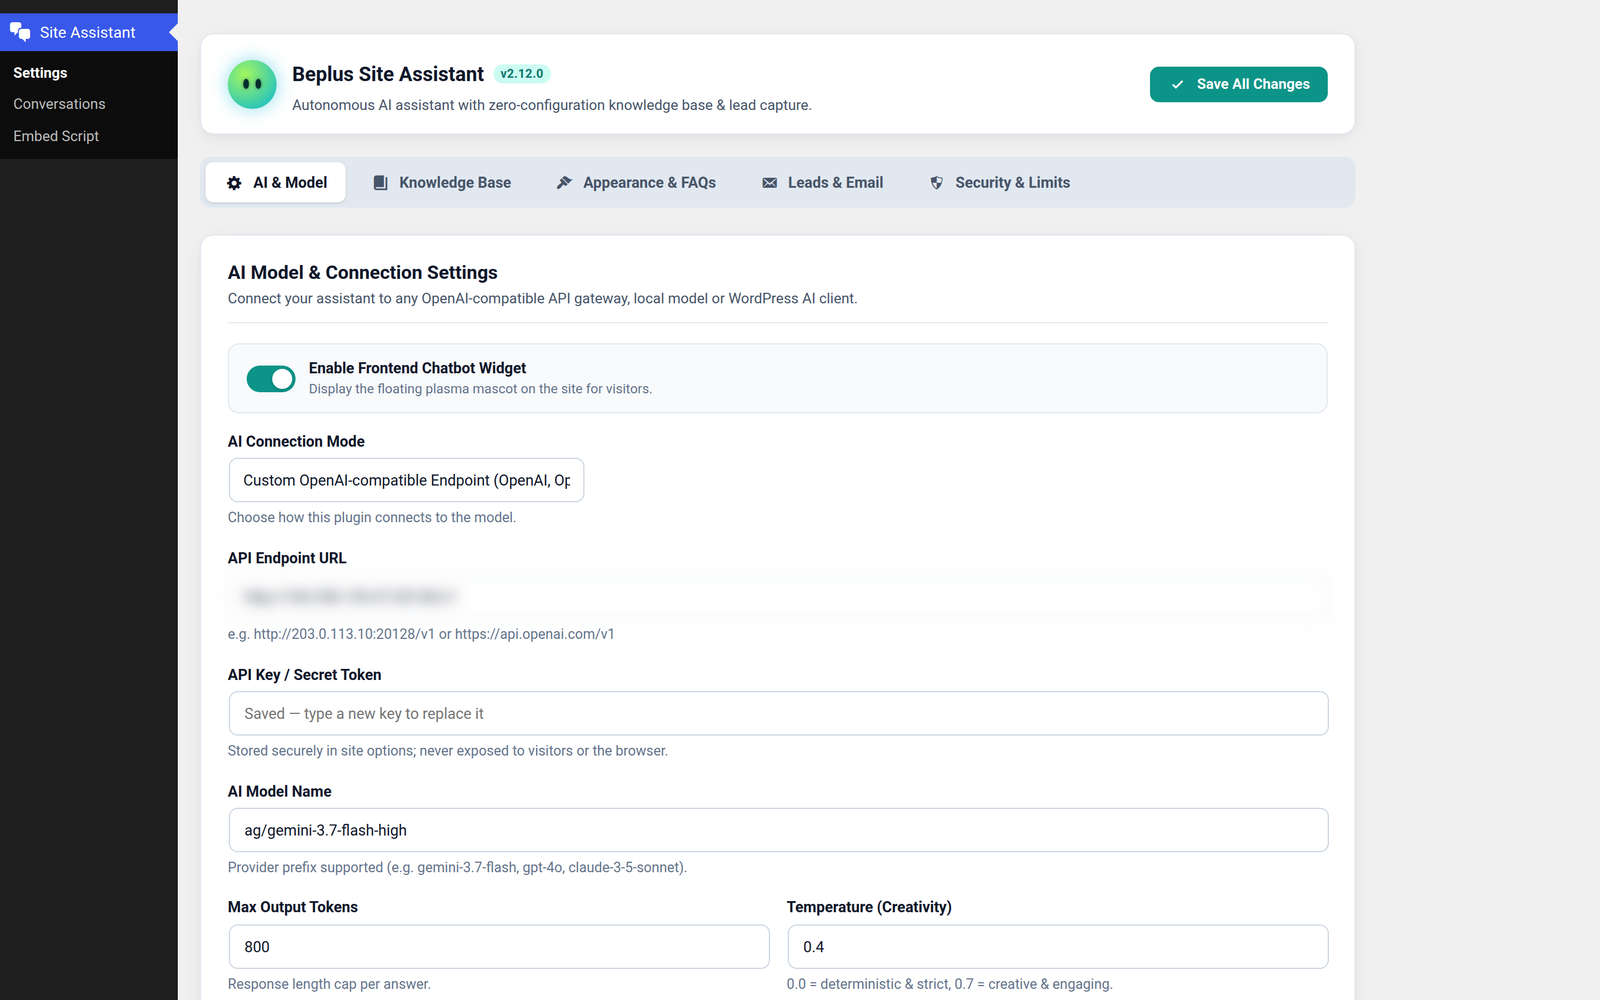
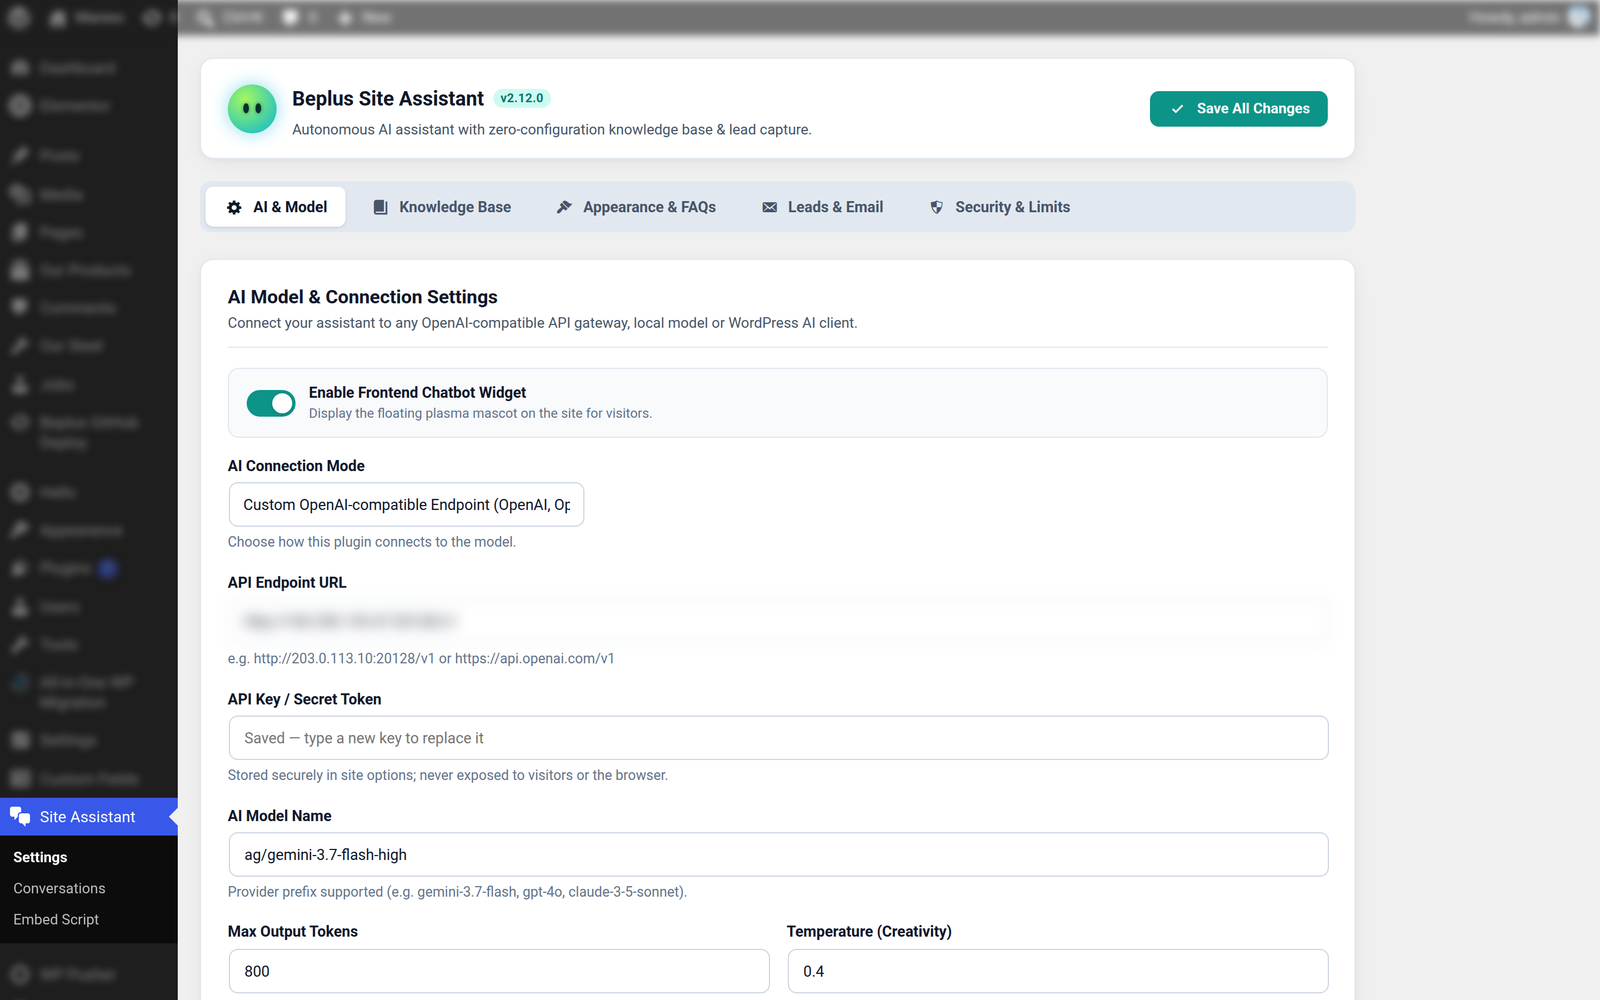
docs: replace hard-cut sidebar with subtle contextual blur
- Apply subtle authentic blur (3.5px) and soft dimming to #wpadminbar and unrelated left menu items
- Keep Site Assistant menu item and its submenus 100% sharp and in focus
- Retain complete WordPress layout context without leaking personal user or site details
- Re-capture all 10 admin settings, conversation, export, and embed screens

diff --git a/scripts/capture-blur-chrome.py b/scripts/capture-blur-chrome.py
@@ -1,0 +1,225 @@
+#!/usr/bin/env python3
+"""Capture clean documentation screenshots with subtle, authentic blur on WordPress chrome.
+
+Applies:
+- Top admin bar (#wpadminbar): subtle blur (3.5px) + dimming (0.55 opacity) so it remains
+  visibly WordPress without attracting the eye to site names or personal logins.
+- Left admin menu (#adminmenu): all other plugin/theme menu items blurred (3.5px) + dimmed (0.45 opacity).
+- Plugin's own menu item (Site Assistant + Settings, Conversations, Embed Script): 100% sharp and clear.
+- Main settings/conversations panel: 100% sharp and high-res.
+- Sensitive credentials (API key, internal IP/endpoint): securely blurred/redacted.
+"""
+import json
+import pathlib
+from PIL import Image
+from playwright.sync_api import sync_playwright
+
+BASE = "https://160-250-135-47.sslip.io"
+CHROME = "/root/.agent-browser/browsers/chrome-153.0.8010.36/chrome"
+OUT_DIR = pathlib.Path("/root/beplus-site-assistant-doc/public/img")
+COOKIE_FILE = pathlib.Path("/tmp/sufe_wp_cookies.json")
+
+BLUR_CHROME_CSS = """
+() => {
+  const style = document.createElement('style');
+  style.id = 'bsa-doc-blur-chrome';
+  style.textContent = `
+    /* Top admin bar: authentic softened blur */
+    #wpadminbar {
+      filter: blur(3.5px) opacity(0.6) !important;
+      pointer-events: none !important;
+    }
+
+    /* Left menu: blur unrelated items, keep Site Assistant 100% sharp */
+    #adminmenu > li:not(.toplevel_page_beplus-site-assistant) {
+      filter: blur(3.5px) opacity(0.45) !important;
+      pointer-events: none !important;
+    }
+    #collapse-menu {
+      filter: blur(2.5px) opacity(0.3) !important;
+    }
+
+    /* Keep credentials blurred */
+    #bsa-endpoint, #bsa-key, [id*="endpoint"], [id*="api-key"], [id*="bsa-key"] {
+      filter: blur(6px) !important;
+    }
+  `;
+  document.head.appendChild(style);
+}
+"""
+
+REDACT_JS = """
+() => {
+  const MAIL = /[\\w.+-]+@[\\w-]+\\.[\\w.]{2,}/g;
+  const IP = /\\b\\d{1,3}\\.\\d{1,3}\\.\\d{1,3}\\.\\d{1,3}\\b/g;
+  const HOST = /160-250-135-47\\.sslip\\.io/g;
+  const emails = ['alex@example.com', 'sam@example.com', 'jo@example.com'];
+  const names = ['Alex Morgan', 'Sam Reed', 'Jo Blake'];
+
+  const scrub = (el, sample, allowName) => {
+    const walk = (node) => {
+      for (const child of [...node.childNodes]) {
+        if (child.nodeType === 3) {
+          let t = child.nodeValue;
+          if (!t) continue;
+          if (sample !== null) {
+            const bare = t.trim();
+            const hasMail = MAIL.test(bare);
+            const looksLikeName =
+              allowName && !hasMail && bare && bare.length < 40 &&
+              !/[:@\\d\\/]/.test(bare) &&
+              !/^(guest|visitor|page|name|actions)$/i.test(bare);
+            if (hasMail) t = t.replace(MAIL, emails[sample % emails.length]);
+            if (looksLikeName) t = t.replace(bare, names[sample % names.length]);
+          }
+          if (IP.test(t)) t = t.replace(IP, '203.0.113.10');
+          if (HOST.test(t)) t = t.replace(HOST, 'your-wordpress.com');
+          if (t !== child.nodeValue) child.nodeValue = t;
+        } else if (child.nodeType === 1) {
+          walk(child);
+        }
+      }
+    };
+    walk(el);
+  };
+
+  let k = 0;
+  [...document.querySelectorAll('table tr')].forEach((tr) => {
+    if (tr.querySelector('th')) { scrub(tr, null, false); return; }
+    const cellWithMail = [...tr.querySelectorAll('td')].find(
+      td => /[\\w.+-]+@[\\w-]+\\.[\\w.]{2,}/.test(td.innerText || '')
+    );
+    const idx = cellWithMail ? k++ : null;
+    [...tr.querySelectorAll('td')].forEach(td => {
+      scrub(td, idx, td === cellWithMail);
+    });
+  });
+  scrub(document.body, null, false);
+}
+"""
+
+def prepare_page(page):
+    page.evaluate(BLUR_CHROME_CSS)
+    page.evaluate(REDACT_JS)
+    page.wait_for_timeout(300)
+
+def optimize_image(path):
+    with Image.open(path) as im:
+        im = im.convert("RGB")
+        if im.width > 1600:
+            new_h = round(im.height * 1600 / im.width)
+            resample = getattr(Image, 'Resampling', Image).LANCZOS
+            im = im.resize((1600, new_h), resample)
+        im.save(path, "PNG", optimize=True)
+
+def main():
+    with open(COOKIE_FILE) as f:
+        auth = json.load(f)
+
+    with sync_playwright() as p:
+        browser = p.chromium.launch(
+            executable_path=CHROME,
+            args=["--no-sandbox", "--disable-gpu", "--disable-dev-shm-usage"],
+        )
+        ctx = browser.new_context(
+            viewport={"width": 1440, "height": 900},
+            device_scale_factor=2,
+            ignore_https_errors=True,
+        )
+        ctx.add_cookies([
+            {
+                "name": auth["logged_in_name"],
+                "value": auth["logged_in_val"],
+                "domain": "160-250-135-47.sslip.io",
+                "path": "/",
+                "httpOnly": True,
+                "secure": True,
+                "sameSite": "Lax",
+            },
+            {
+                "name": auth["secure_name"],
+                "value": auth["secure_val"],
+                "domain": "160-250-135-47.sslip.io",
+                "path": "/wp-admin",
+                "httpOnly": True,
+                "secure": True,
+                "sameSite": "Lax",
+            },
+        ])
+        page = ctx.new_page()
+
+        # 1. Settings tabs
+        settings_tabs = [
+            ("AI & Model", "01-settings-ai.png"),
+            ("Knowledge Base", "02-settings-knowledge.png"),
+            ("Appearance & FAQs", "03-settings-appearance.png"),
+            ("Leads & Email", "04-settings-leads.png"),
+            ("Security & Limits", "05-settings-security.png"),
+        ]
+
+        for tab_name, fname in settings_tabs:
+            print(f"Capturing Settings -> {tab_name} ({fname})...")
+            page.goto(f"{BASE}/wp-admin/admin.php?page=beplus-site-assistant", wait_until="networkidle")
+            page.wait_for_timeout(800)
+            try:
+                page.get_by_role("button", name=tab_name, exact=False).first.click()
+                page.wait_for_timeout(1000)
+            except Exception as e:
+                print(f"  Warning clicking tab {tab_name}: {e}")
+            prepare_page(page)
+            out_path = OUT_DIR / fname
+            page.screenshot(path=str(out_path))
+            optimize_image(out_path)
+            print(f"  Saved {fname} ({out_path.stat().st_size} bytes)")
+
+        # 2. Conversations tabs
+        conv_tabs = [
+            ("Live Sessions", "06-conversations-live.png"),
+            ("SEO Insights", "07-conversations-seo.png"),
+            ("Storage", "08-conversations-storage.png"),
+        ]
+        for tab_name, fname in conv_tabs:
+            print(f"Capturing Conversations -> {tab_name} ({fname})...")
+            page.goto(f"{BASE}/wp-admin/admin.php?page=beplus-site-assistant-live", wait_until="networkidle")
+            page.wait_for_timeout(800)
+            try:
+                page.get_by_role("button", name=tab_name, exact=False).first.click()
+                page.wait_for_timeout(1500)
+            except Exception as e:
+                print(f"  Warning clicking tab {tab_name}: {e}")
+            prepare_page(page)
+            out_path = OUT_DIR / fname
+            page.screenshot(path=str(out_path))
+            optimize_image(out_path)
+            print(f"  Saved {fname} ({out_path.stat().st_size} bytes)")
+
+        # 3. Embed Script page
+        print("Capturing Embed Script (09-embed-script.png)...")
+        page.goto(f"{BASE}/wp-admin/admin.php?page=beplus-site-assistant-embed", wait_until="networkidle")
+        page.wait_for_timeout(1000)
+        prepare_page(page)
+        out_path = OUT_DIR / "09-embed-script.png"
+        page.screenshot(path=str(out_path))
+        optimize_image(out_path)
+        print(f"  Saved 09-embed-script.png ({out_path.stat().st_size} bytes)")
+
+        # 4. Export dialog
+        print("Capturing Export dialog (13-export.png)...")
+        page.goto(f"{BASE}/wp-admin/admin.php?page=beplus-site-assistant-live", wait_until="networkidle")
+        page.wait_for_timeout(1200)
+        try:
+            page.get_by_role("button", name="Export", exact=False).first.click()
+            page.wait_for_timeout(1200)
+        except Exception as e:
+            print(f"  Warning clicking Export: {e}")
+        prepare_page(page)
+        out_path = OUT_DIR / "13-export.png"
+        page.screenshot(path=str(out_path))
+        optimize_image(out_path)
+        print(f"  Saved 13-export.png ({out_path.stat().st_size} bytes)")
+
+        browser.close()
+    print("All captures completed successfully!")
+
+if __name__ == "__main__":
+    main()
